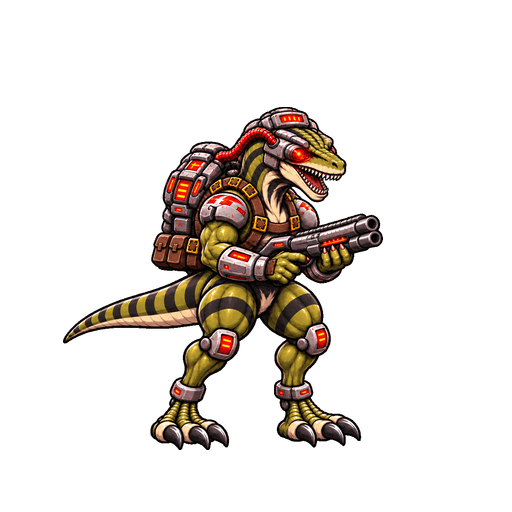
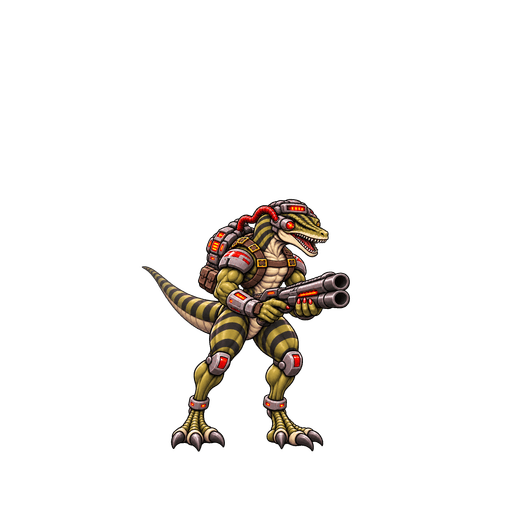
Raptor39T7.5: add registered front-right standing stalk and jog pilot

Changed region(s): [[0.125, 0.1875, 0.75, 0.875]]

diff --git a/app/studio/character-lab/page.tsx b/app/studio/character-lab/page.tsx
@@ -23,15 +23,15 @@ export default function CombatLab(){
  return <main style={{minHeight:"100vh",background:"#08101b",color:"#f5fbff",fontFamily:"Arial",padding:"max(25px,env(safe-area-inset-top)) 20px"}}>
   <div style={{maxWidth:800,margin:"auto"}}>
    <a href="/studio" style={{color:"#89e9f2"}}>← BACK TO STUDIO</a>
-   <p style={{color:"#ff8d9e",letterSpacing:2,fontSize:12}}>GOD MODE / BUILD 39T7.4 PLAYTEST</p>
+   <p style={{color:"#ff8d9e",letterSpacing:2,fontSize:12}}>GOD MODE / BUILD 39T7.5 PLAYTEST</p>
    <h1>COMBAT LAB</h1>
    <a href="/raptor-animation-review.html" style={{color:"#89e9f2"}}>Review all run and slide frames</a>
    <p>Both fighters use the newer XYZ combat engine. This is a test build, not a production character unlock.</p>
    <div style={{display:"grid",gridTemplateColumns:"repeat(auto-fit,minmax(230px,1fr))",gap:14,marginTop:25}}>
     <button style={button} onClick={()=>setFighter("jade")}>JADE <small style={{display:"block",fontWeight:400,marginTop:10}}>Existing gameplay baseline</small></button>
-    <button disabled={artReady!==true} style={{...button,borderColor:"#ff925e",opacity:artReady?1:.5}} onClick={()=>setFighter("raptor")}>RAPTOR V2 <small style={{display:"block",fontWeight:400,marginTop:10}}>{artReady===null?"Loading Raptor artwork…":artReady?"Side gait and right slide corrections · Other views under review":"Artwork failed to load — reload to retry"}</small></button>
+    <button disabled={artReady!==true} style={{...button,borderColor:"#ff925e",opacity:artReady?1:.5}} onClick={()=>setFighter("raptor")}>RAPTOR V2 <small style={{display:"block",fontWeight:400,marginTop:10}}>{artReady===null?"Loading Raptor artwork…":artReady?"Front-right gait pilot · Other views under review":"Artwork failed to load — reload to retry"}</small></button>
    </div>
-   <p style={{color:"#f5bf8e",fontSize:13,marginTop:24}}>Standing now has dedicated artwork in all eight directions. Left- and right-facing movement have distinct stalking, jogging, and sprint poses; the other six slow gaits remain provisional. Use the pace selector with keyboard or touch to review the transitions. Controller stick pressure remains analog. Moving fire follows aim.</p>
+   <p style={{color:"#f5bf8e",fontSize:13,marginTop:24}}>Standing now has dedicated artwork in all eight directions. Left, right, and front-right movement have dedicated stalk and jog cycles; the other five slow directions remain provisional. Sprint continuity and firing-effect alignment are still under review. Use the pace selector with keyboard or touch to review the transitions. Controller stick pressure remains analog. Moving fire follows aim.</p>
   </div>
  </main>;
 }

diff --git a/docs/raptor-39t7-anatomy-audit.md b/docs/raptor-39t7-anatomy-audit.md
@@ -86,3 +86,6 @@ Left stalk sources in phase order: exec-7b70966f-7fc6-4d91-a7a3-d80ed84defbf.png
 Left jog sources: exec-77b7066c-80dc-40ef-a593-6c769624bcab.png; exec-98640525-c515-4ceb-9f55-0b1de6b05252.png; exec-f765587b-11ad-4387-917b-d81df6b47dd6.png; exec-7ef906e1-d7bc-4e78-ad23-46169d38c8af.png.
 Right slide sources: exec-84f8e288-449d-4ca4-aced-1a72e68a46b8.png; exec-4f336645-0516-4e94-8d97-f965dd55e038.png; exec-fbb19a17-2e1c-49a6-b8c1-8d3d6906447a.png.
 Right corrected inventory now idle1/stalk4/jog4/slide3; left corrected idle1/stalk4/jog4. Total21 corrected PNGs across39T7.3/4; overall unique runtime image count remains80 plus32 aliases=112paths. These are pilot corrections, not complete acceptance of all directions. New39T7.4 gameplay verification pending. Other6stalk/jog directions remain48missing images; frontdiagonal sprint8 still requires thigh/proportion correction, rear scale/camera consistency and all other slide transitions remain open. Preserve checkpoint/39t7-3-before-registration.
+
+## 39T7.5 front-right pilot
+Nine front-right replacements/new assets passed static cycle review and local file checks: idle1/stalk4/jog4. Both contact phases exchange leading thighs; passing phases exchange support legs. Uniform .2 source-canvas scale, pelvis projection x650 and ground reference y1270; no individual bounding-box normalization. Source9 images all1199x1312.512PNG export, alpha edges and SHA256 validated. Added front-right to postureDirections only after both4-frame cycles were present. All three installed posture directions retain all4 phases in selection tests including moving fire. Runtime inventory becomes88unique images plus32run aliases=120paths. Total30 anatomy pilot images across39T7.3–5. Five directions still lack stalk/jog (40images). This does not accept old front-right sprint or complete transition/firing alignment.39T7.5 live verification pending. Front-left new master exec-54854b55-7105-4d44-98a8-96348d1e5a73.png and its newly generated gaits remain uninstalled.
